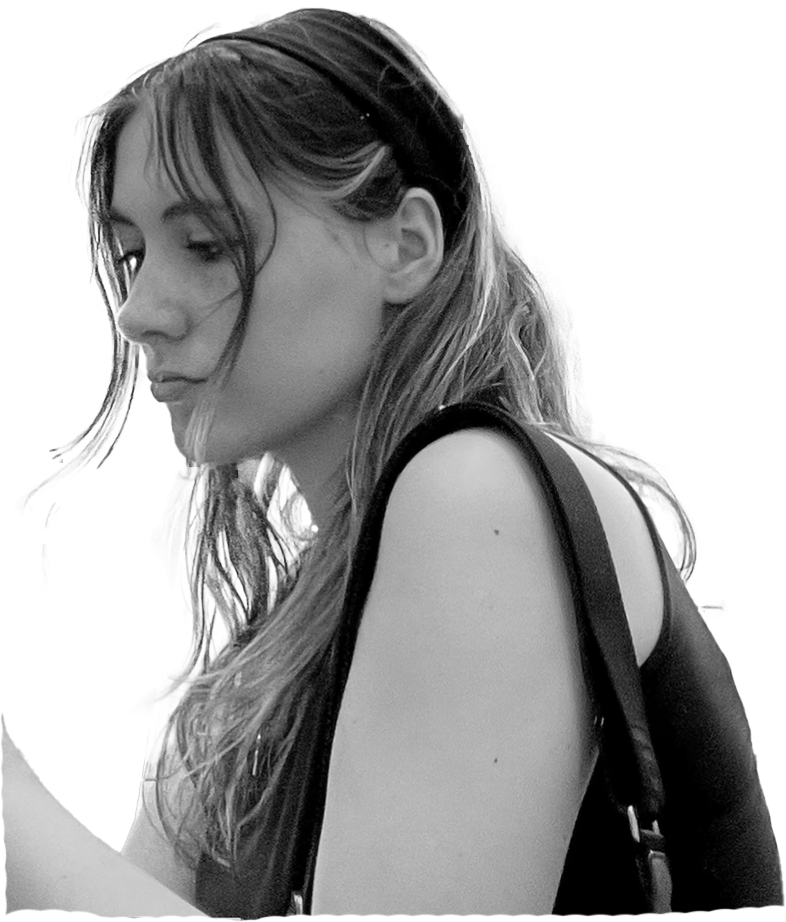
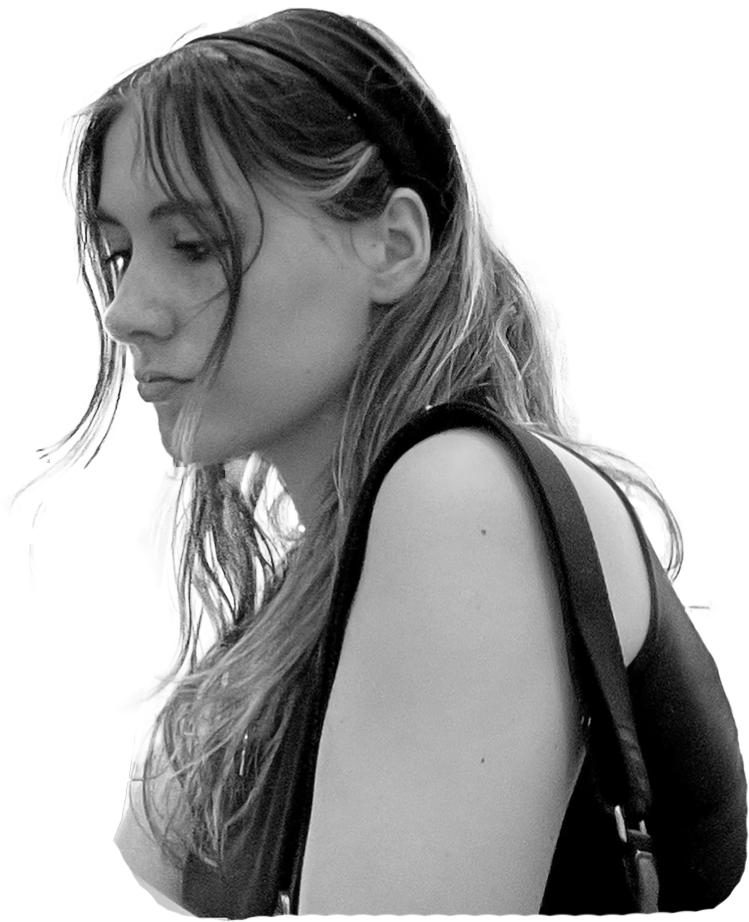
changes global css & layout

diff --git a/src/styles/global.css b/src/styles/global.css
@@ -30,9 +30,12 @@ html {
     --color-red: #FF6272;
 
 
-    --font-primary: "Roboto", sans-serif;
-    --font-secondary: "Inter", sans-serif;
-    --font-tertiary: "Anton", sans-serif;
+    --font-primary: "Karantina", sans-serif;
+    --font-secondary: "Arya", sans-serif;
+    --font-tertiary: "Caveat", sans-serif;
+    --font-quaternary: "League Gothic", sans-serif;
+
+    --max-width-page: 75rem;
 }
 
 /* INDEX */
@@ -50,9 +53,20 @@ html {
 .nav__link--home,
 .nav__link--about,
 .nav__link--samples {
+    font-family: var(--font-primary);
     text-decoration: none;
     color: #333;
     font-weight: bold;
+}
+
+.nav__link--home:hover,
+.nav__link--about:hover,
+.nav__link--samples:hover {
+    font-family: var(--font-tertiary);
+}
+
+.header {
+    font-family: var(--font-primary);
 }
 
 .hero__button {
@@ -78,7 +92,7 @@ html {
 
 .hero__button-container {
     display: flex;
-    justify-content: center;
+    justify-content: flex-end;
 }
 
 .hero__button {
@@ -89,16 +103,45 @@ html {
 }
 
 /* specialties */
+.specialties {
+    display: flex;
+    flex-direction: row;
+    gap: 4rem;
+    justify-content: center;
+    align-items: center;
+    text-align: center;
+    margin-top: 3rem;
+    margin-bottom: 3rem;
+}
+
 .s1 {
+    transform: rotate(-6deg);
+    font-family: var(--font-secondary);
     color: var(--color-pink);
+    background-color: var(--main-color);
+    border: 1px solid var(--color-pink);
+    padding: 0.5rem 1rem;
+    border-radius: 2rem;
 }
 
 .s2 {
+    transform: rotate(5deg);
+    font-family: var(--font-tertiary);
     color: var(--color-orange);
+    background-color: var(--main-color);
+    border: 1px solid var(--color-orange);
+    padding: 0.5rem 1rem;
+    border-radius: 2rem;
 }
 
 .s3 {
+    transform: rotate(-4deg);
+    font-family: var(--font-quaternary);
     color: var(--color-green);
+    background-color: var(--main-color);
+    border: 1px solid var(--color-green);
+    padding: 0.5rem 1rem;
+    border-radius: 2rem;
 }
 
 /* explore */
@@ -148,6 +191,29 @@ html {
 .footer__container {
     background-color: var(--main-color);
     color: var(--color-red);
+    padding-top: 1rem;
+    padding-bottom: 1rem;
+}
+
+.footer__list {
+    display: flex;
+    justify-content: flex-end;
+}
+
+.footer__title {
+    font-family: var(--font-primary);
+    text-align: start;
+    margin-bottom: 1rem;
+}
+
+.footer__item {
+    display: inline-block;
+    margin-right: 1rem;
+}
+
+.footer__link img {
+    width: 4rem;
+    height: 4rem;
 }
 
 /* ABOUT */
